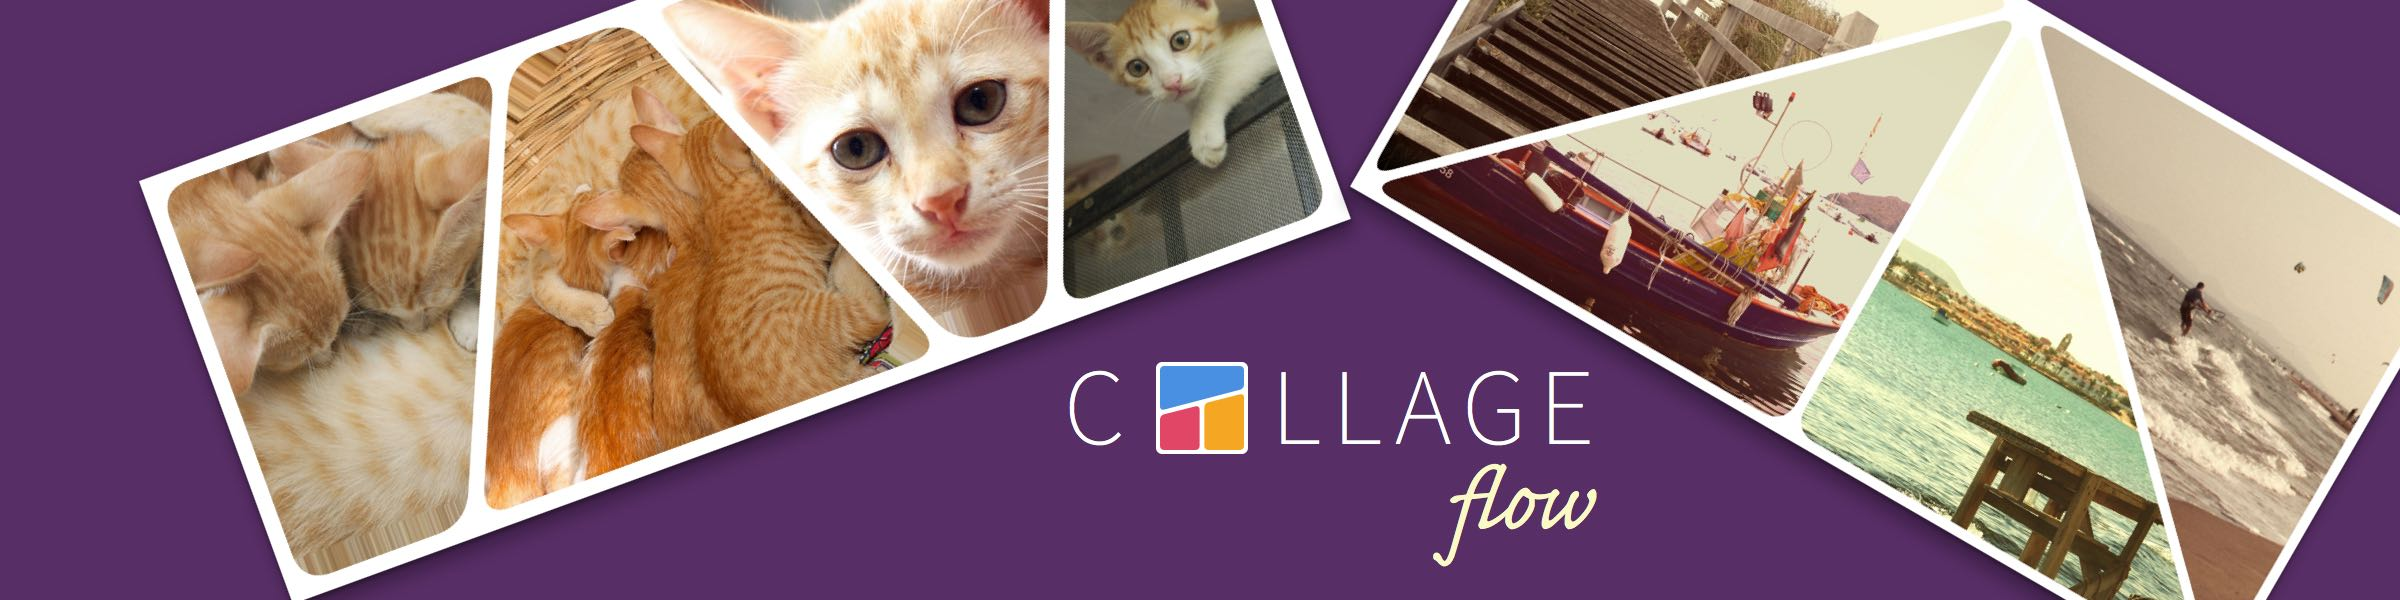
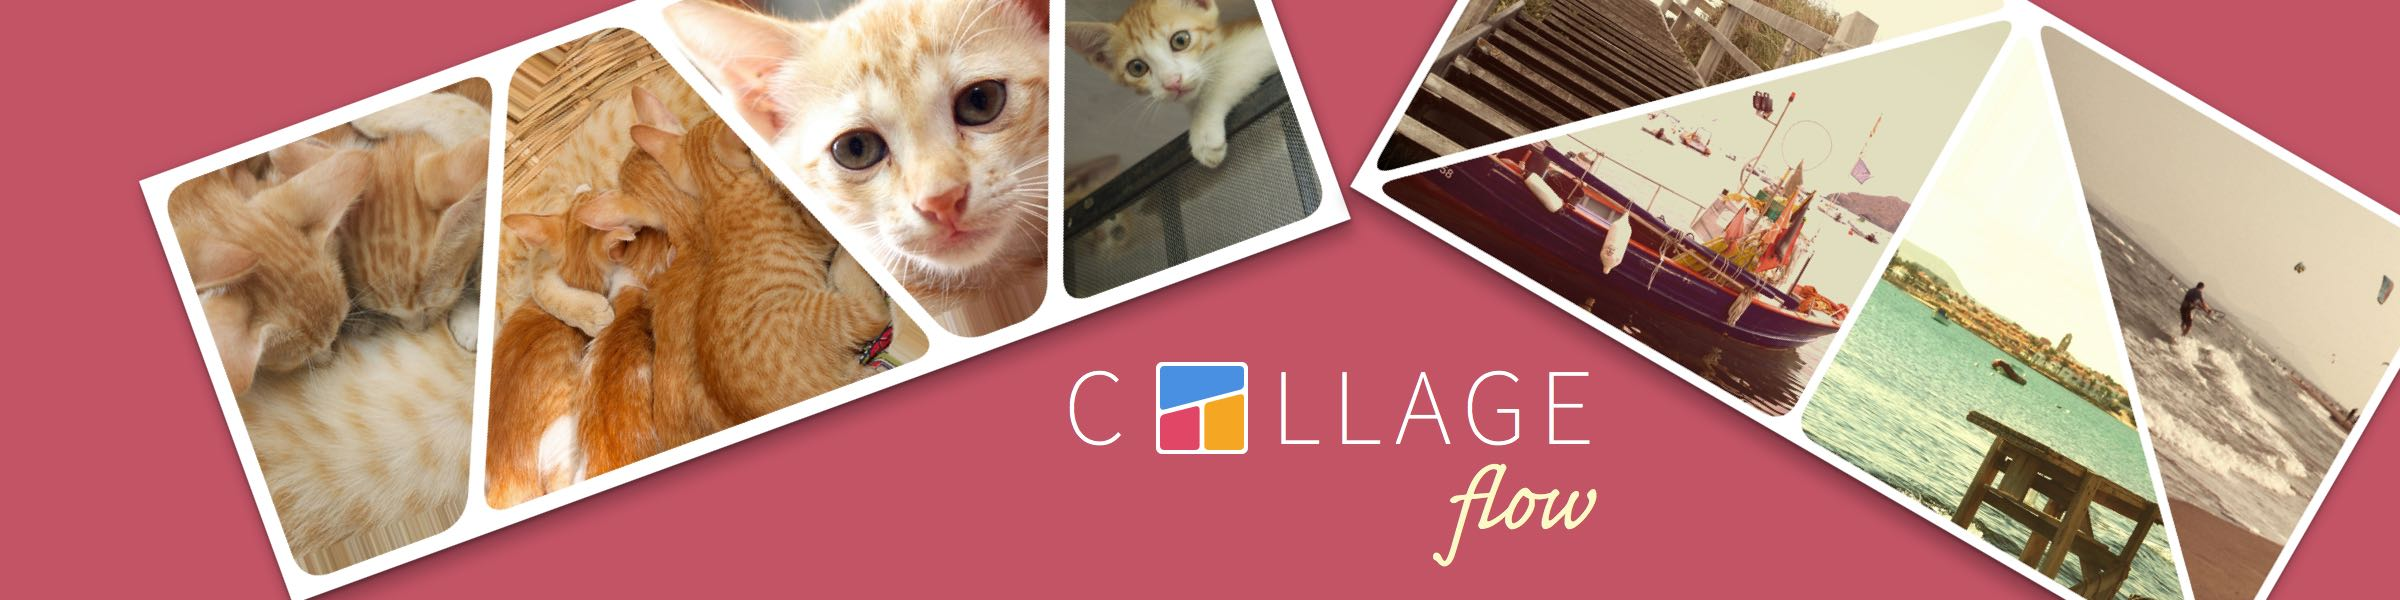
Updates for public beta

diff --git a/css/application.css b/css/application.css
@@ -382,7 +382,7 @@ h2 {
 
 header {
   display: block;
-  background: #582E66 url(../images/feature-graphic.jpg) no-repeat center center;
+  background: #C35466 url(../images/feature-graphic.jpg) no-repeat center center;
   height: 0;
   padding: 25% 0 0 0;
   background-size: 100% auto; }
@@ -406,10 +406,9 @@ header {
 
 .phone {
   display: block;
-  color: black;
   float: right;
   margin-top: -180px;
-  width: 48.71795%;
+  width: 42.30769%;
   float: left;
   margin-right: 2.5641%; }
   .phone .image {
@@ -417,7 +416,7 @@ header {
     position: relative;
     height: 600px;
     margin: 0 auto;
-    background: black;
+    background: white;
     box-shadow: 0 0 10px rgba(0, 0, 0, 0.3);
     border-radius: 200px 200px / 20px 20px; }
     .phone .image:before, .phone .image:after {
@@ -467,38 +466,27 @@ header {
     font-size: 22px;
     line-height: 1.5em;
     text-transform: lowercase; }
-  .signup a {
+  .signup a.play-store {
+    display: block; }
+  .signup a.community {
     display: inline-block;
-    padding: 12px 80px 12px 24px;
-    font-size: 30px;
-    font-weight: 100;
+    border: solid 1px #ccc;
+    padding: 4px;
+    border-radius: 6px;
+    height: 40px;
+    color: rgba(0, 0, 0, 0.7);
+    line-height: 32px;
     text-decoration: none;
-    background: #582E66;
-    color: white;
-    position: relative; }
-    .signup a:before, .signup a:after {
-      content: " ";
-      position: absolute;
+    background: black; }
+    .signup a.community img {
       display: block;
-      top: 50%; }
-    .signup a:before {
-      right: 20px;
-      margin-top: -20px;
-      width: 40px;
-      height: 40px;
-      border-radius: 20px;
-      background: white;
-      box-shadow: 0 0 10px 0 rgba(0, 0, 0, 0.4); }
-    .signup a:after {
-      right: 34px;
-      margin-top: -8px;
-      width: 16px;
-      height: 16px;
-      border: solid 4px rgba(0, 0, 0, 0.4);
-      border-left: transparent;
-      border-bottom: transparent;
-      -webkit-transform: rotate(45deg);
-      transform: rotate(45deg); }
+      float: left; }
+    .signup a.community span {
+      display: inline-block;
+      padding: 0 6px 0 4px;
+      line-height: 32px;
+      text-transform: uppercase;
+      color: white; }
   .signup p em {
     font-size: 14px;
     color: rgba(0, 0, 0, 0.4); }

diff --git a/scss/_layout.scss b/scss/_layout.scss
@@ -30,17 +30,16 @@ header {
 
 .phone {
   display: block;
-  color: $black;
   float: right;
   margin-top: -180px;
-  @include span(4);
+  @include span(3.5);
 
   .image {
     width: 300px;
     position: relative;
     height: 600px;
     margin: 0 auto;
-    background: $black;
+    background: $white;
     box-shadow: 0 0 10px rgba(black, 0.3);
     border-radius: 200px 200px / 20px 20px;
 
@@ -103,45 +102,35 @@ header {
     line-height: 1.5em;
     text-transform: lowercase;
   }
-
-  a {
+  
+  a.play-store {
+    display: block;
+  }
+  
+  a.community {
     display: inline-block;
-    padding: 12px 80px 12px 24px;
-    font-size: 30px;
-    font-weight: 100;
+    border: solid 1px #ccc;
+    padding: 4px;
+    border-radius: 6px;
+    height: 40px;
+    
+    color: $gray-dark;
+    line-height: 32px;
     text-decoration: none;
-    background: $primary-color;
-    color: white;
-    position: relative;
-
-    &:before, &:after {
-      content: " ";
-      position: absolute;
+    background: $black;
+//     background: #d2473a;
+    
+    img {
       display: block;
-      top: 50%;
+      float: left;
     }
-
-    &:before {
-      right: 20px;
-      margin-top: -20px;
-      width: 40px;
-      height: 40px;
-      border-radius: 20px;
-      background: white;
-
-      box-shadow: 0 0 10px 0 $gray-light;
-    }
-
-    &:after {
-      right: 34px;
-      margin-top: -8px;
-      width: 16px;
-      height: 16px;
-      border: solid 4px $gray-light;
-      border-left: transparent;
-      border-bottom: transparent;
-      -webkit-transform: rotate(45deg);
-      transform: rotate(45deg);
+    
+    span {
+      display: inline-block;
+      padding: 0 6px 0 4px;
+      line-height: 32px;
+      text-transform: uppercase;
+      color: $white;
     }
   }
 

diff --git a/index.html b/index.html
@@ -22,7 +22,7 @@
         <div class="image"></div>
         <div class="video">
         <video controls autoplay>
-            <source src="http://collageflow.s3.amazonaws.com/videos/collageflow-beta-02-720p.mp4" type="video/mp4" />
+            <source src="http://collageflow.s3.amazonaws.com/videos/collageflow-beta-03.mp4" type="video/mp4" />
           </video>
         </div>
       </div>
@@ -34,8 +34,15 @@
           <li>Share your creations</li>
           <li>Export high-res files for print</li>
         </ul>
+        
+        <a href="https://play.google.com/store/apps/details?id=com.collageflow.android" class="play-store">
+          <img alt="Android app on Google Play" src="https://developer.android.com/images/brand/en_app_rgb_wo_45.png" />
+        </a>
 
-        <a href="https://plus.google.com/u/2/communities/110952977814166773980">Join Beta</a>
+        <a href="https://plus.google.com/u/4/communities/110952977814166773980?prsrc=3" rel="publisher" target="_top" class="community">
+          <img src="http://gstatic.com/images/icons/gplus-32.png" alt="Google+" />
+          <span>join beta</span>
+        </a>
 
         <p>
           <em>* requires a device running Android JellyBean or above</em>

diff --git a/scss/base/_colors.scss b/scss/base/_colors.scss
@@ -2,10 +2,13 @@ $black: black;
 $white: white;
 
 $purple: #582E66;
+$red: #C35466;
 
 $gray-xxlight: rgba(black, 0.2);
 $gray-xlight: rgba(black, 0.3);
 $gray-light: rgba(black, 0.4);
 $gray: rgba(black, 0.5);
+$gray-dark: rgba(black, 0.7);
 
-$primary-color: $purple;
+
+$primary-color: $red;
